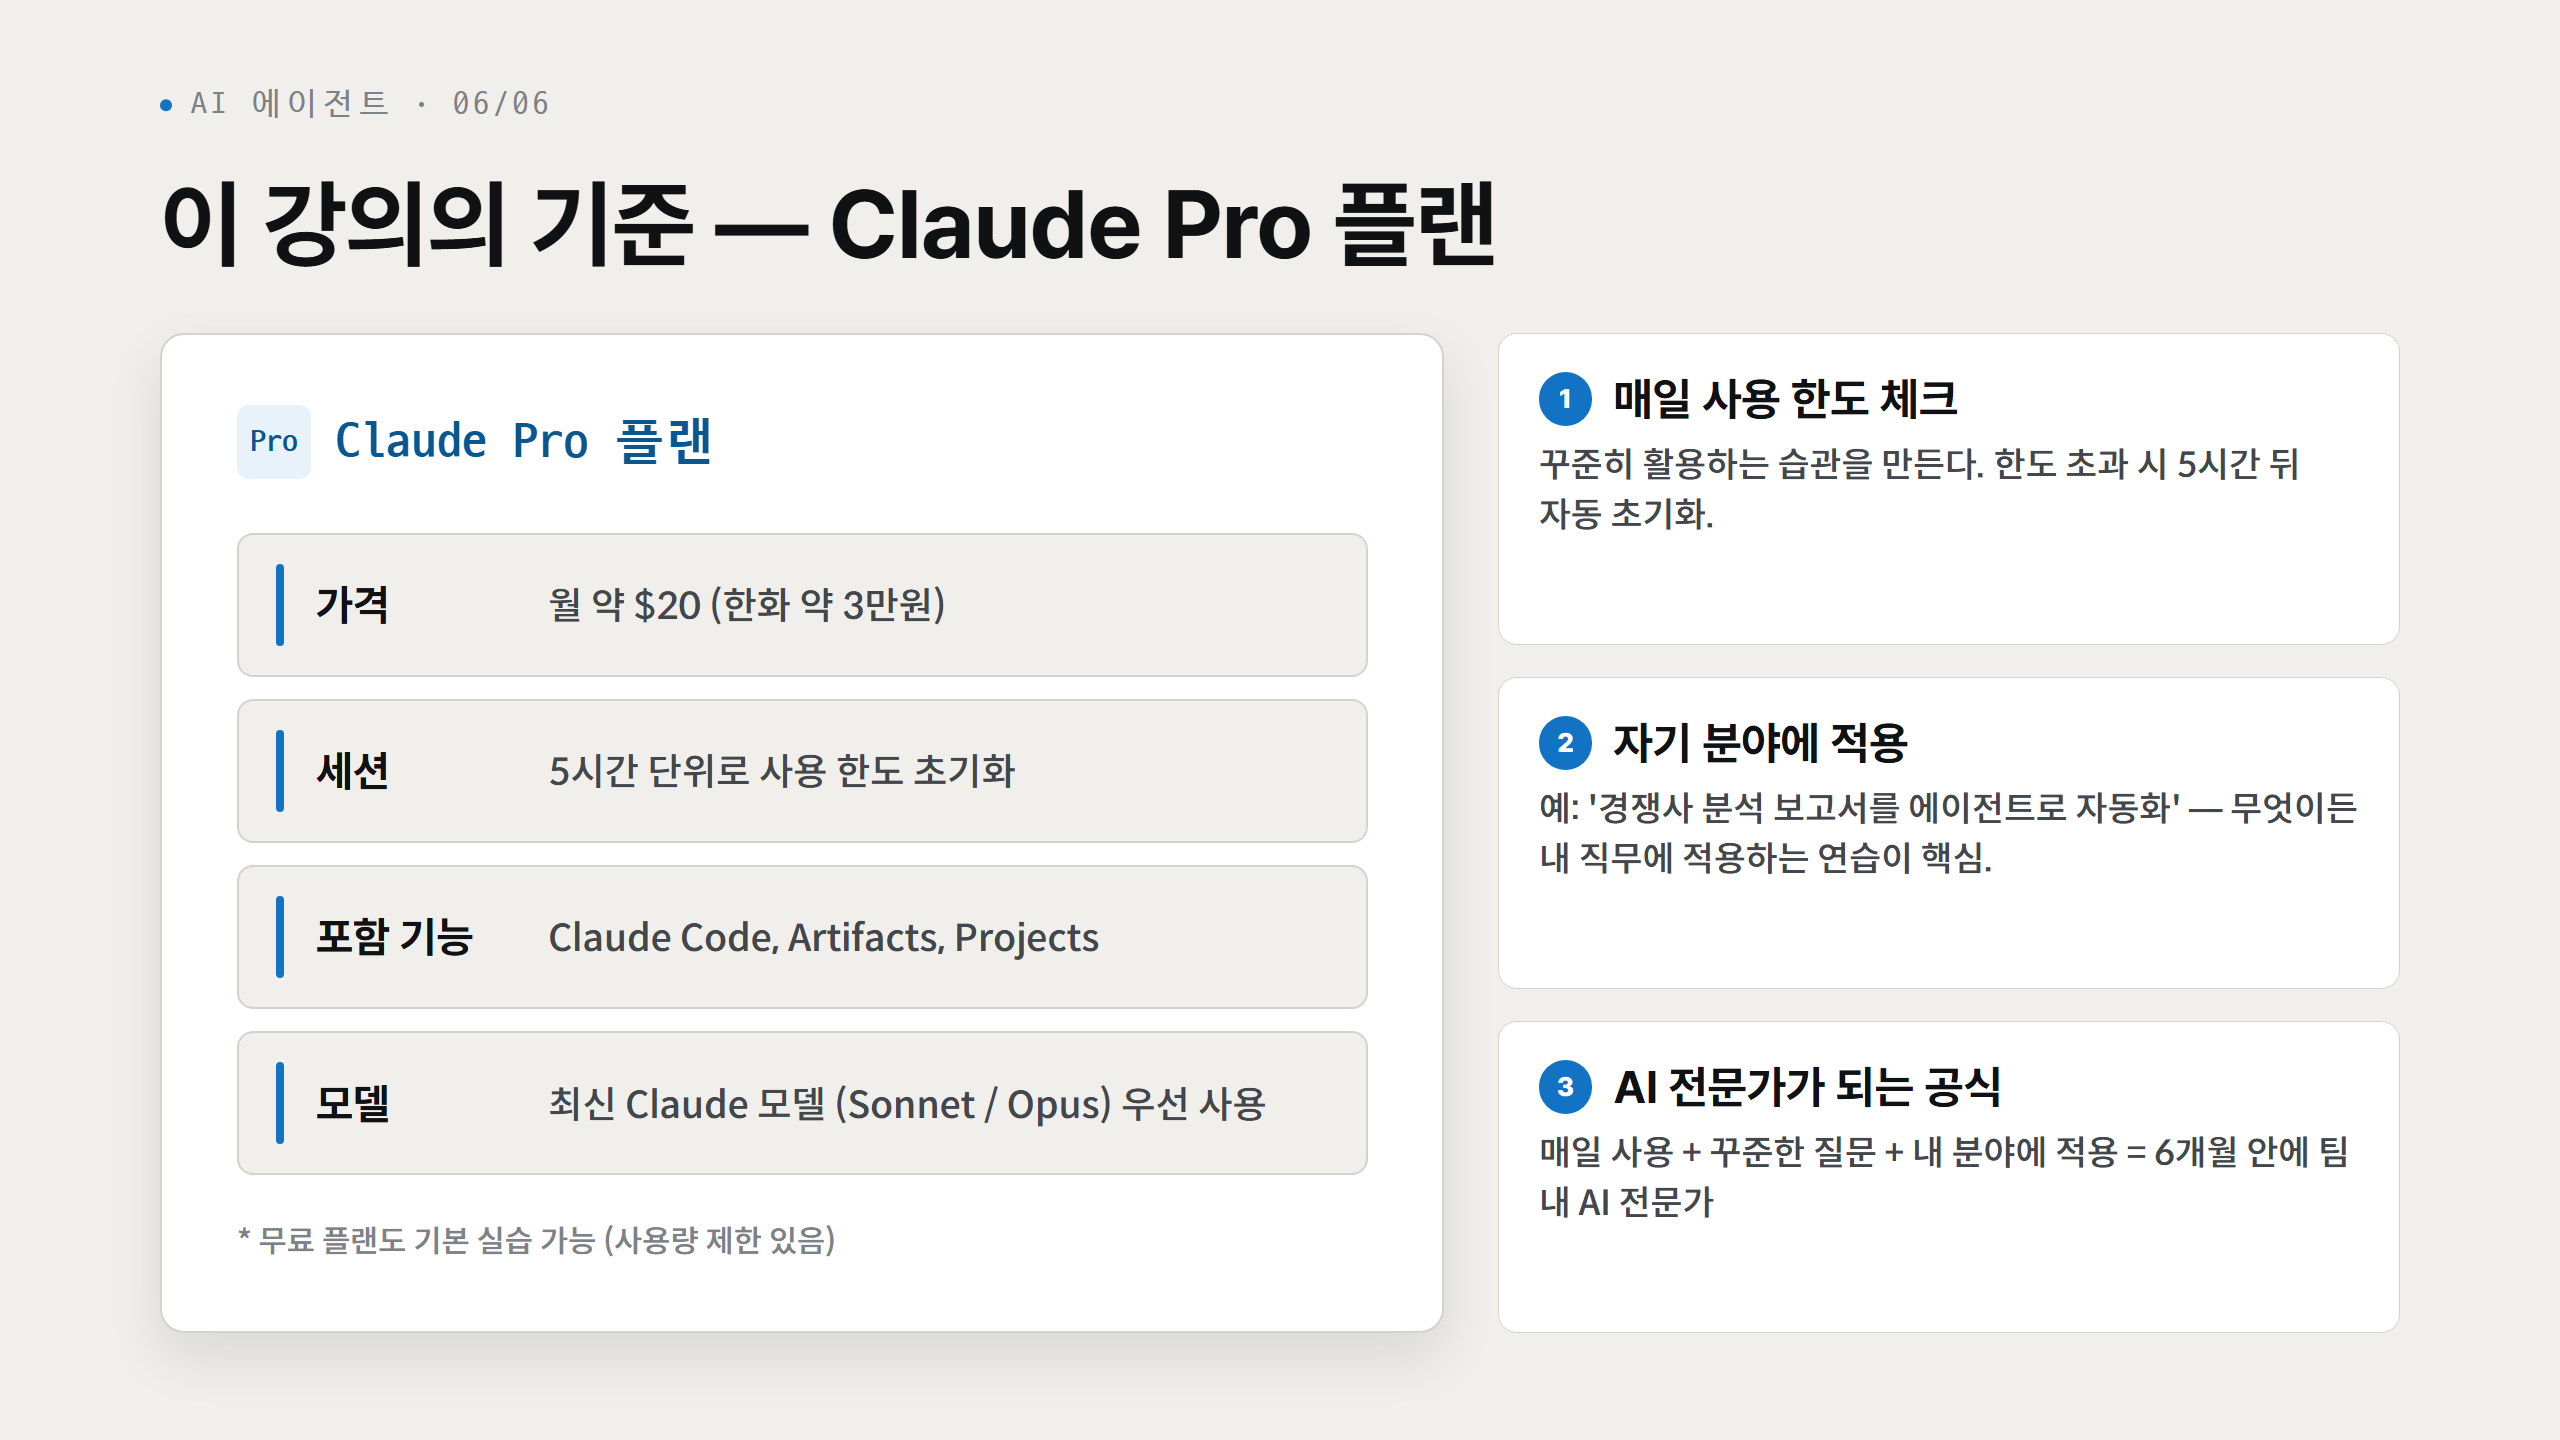
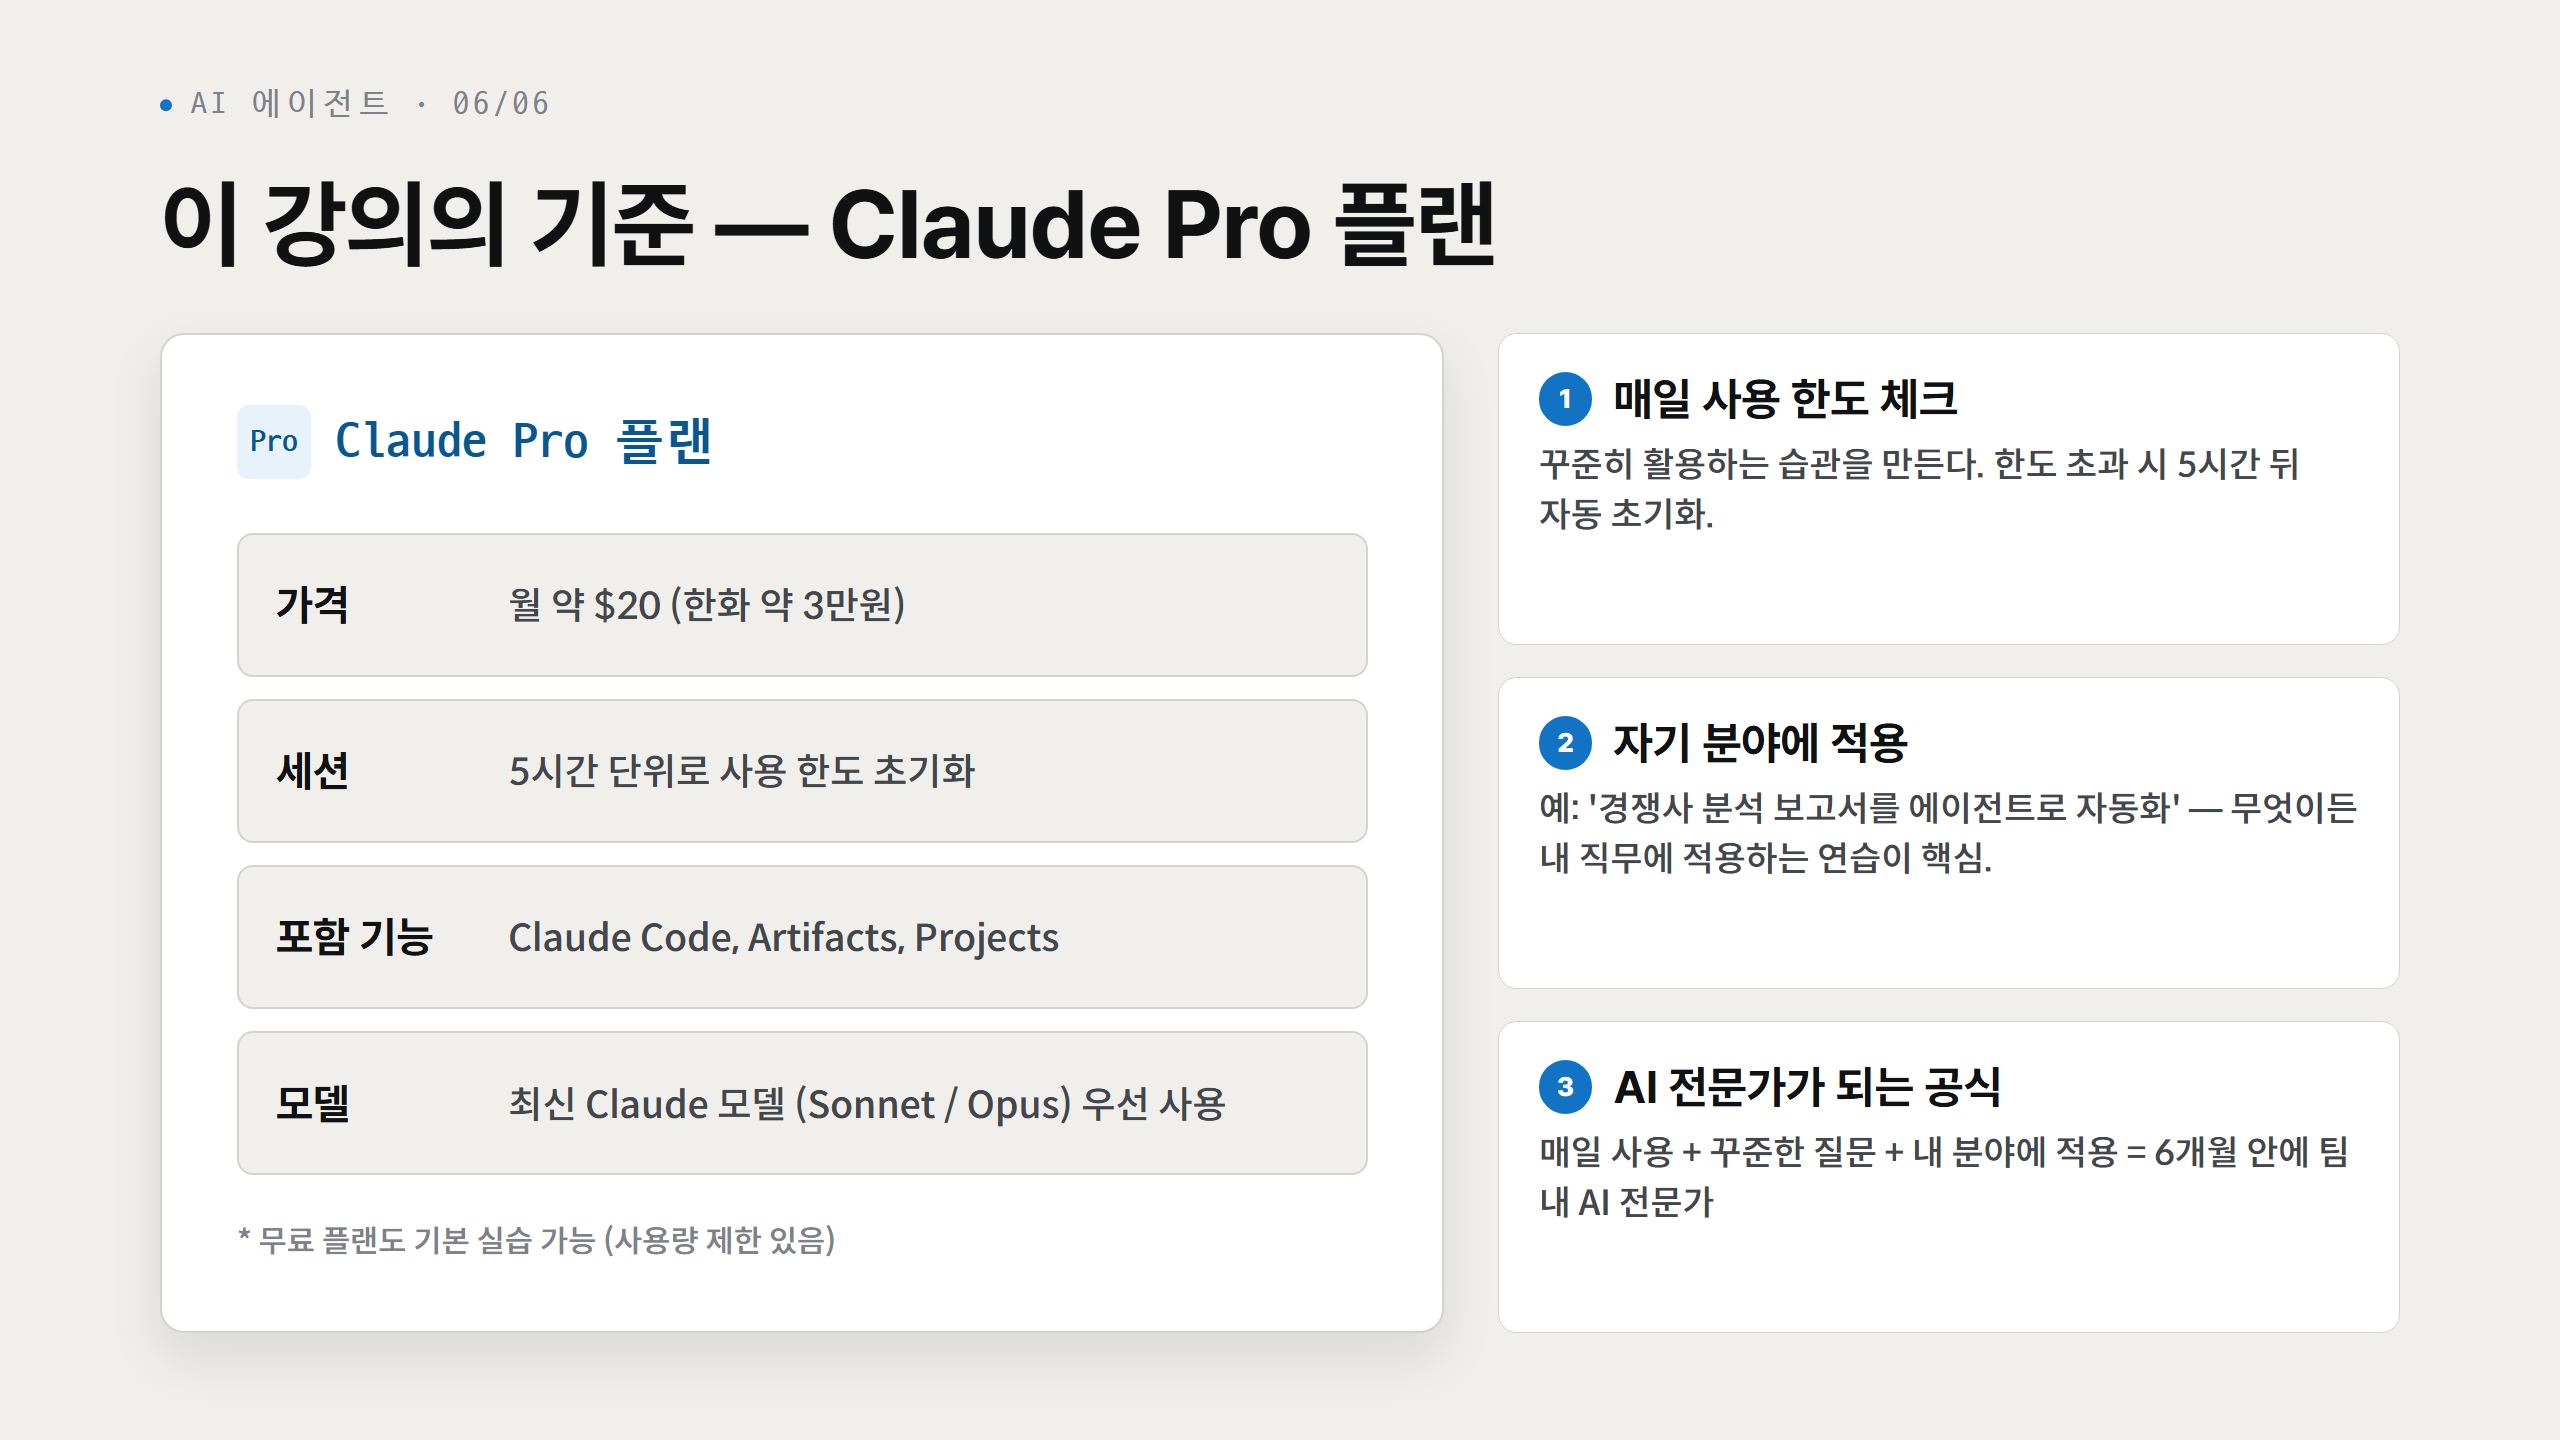
basic 1회차 — Claude Pro 카드의 왼쪽 색상 띠를 뺀다
Claude-Session: https://claude.ai/code/session_01Srwc7pyL83dNKp728kNW4j

diff --git a/slidekit2/src/specs/s1-agent.tsx b/slidekit2/src/specs/s1-agent.tsx
@@ -621,7 +621,6 @@ const Slide08: React.FC = () => {
                 borderRadius: 12,
               }}
             >
-              <div style={{ width: 6, alignSelf: "stretch", margin: "22px 0", borderRadius: 3, background: COLORS.accent, flex: "0 0 auto" }} />
               <span style={{ fontFamily: FONTS.display, fontWeight: 700, fontSize: 32, color: COLORS.ink, flex: "0 0 150px" }}>{r.label}</span>
               <span style={{ fontFamily: FONTS.body, fontWeight: 500, fontSize: 28, color: COLORS.ink2, wordBreak: "keep-all" }}>{r.value}</span>
             </div>
